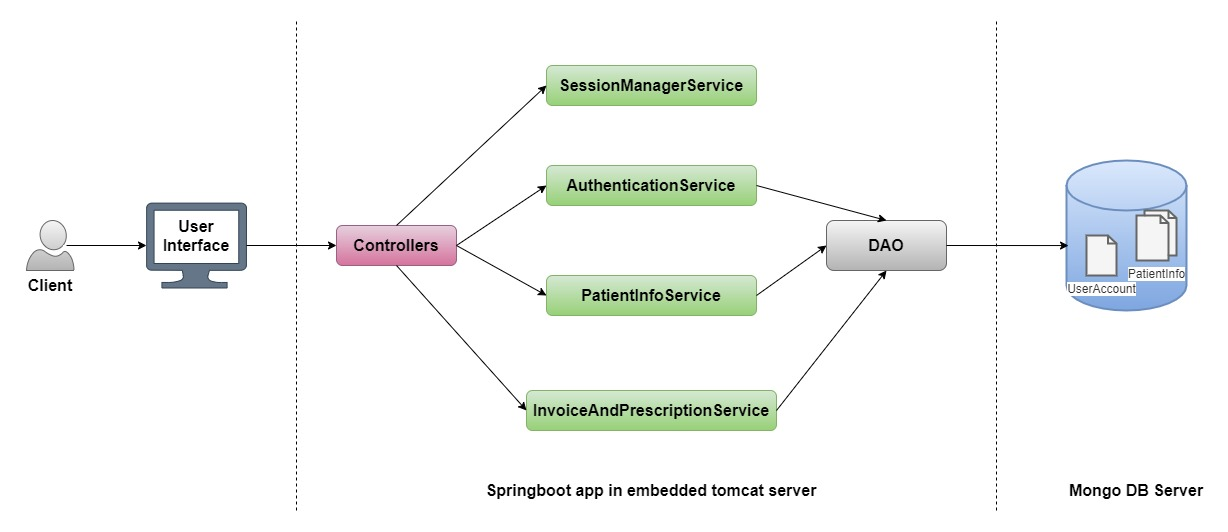
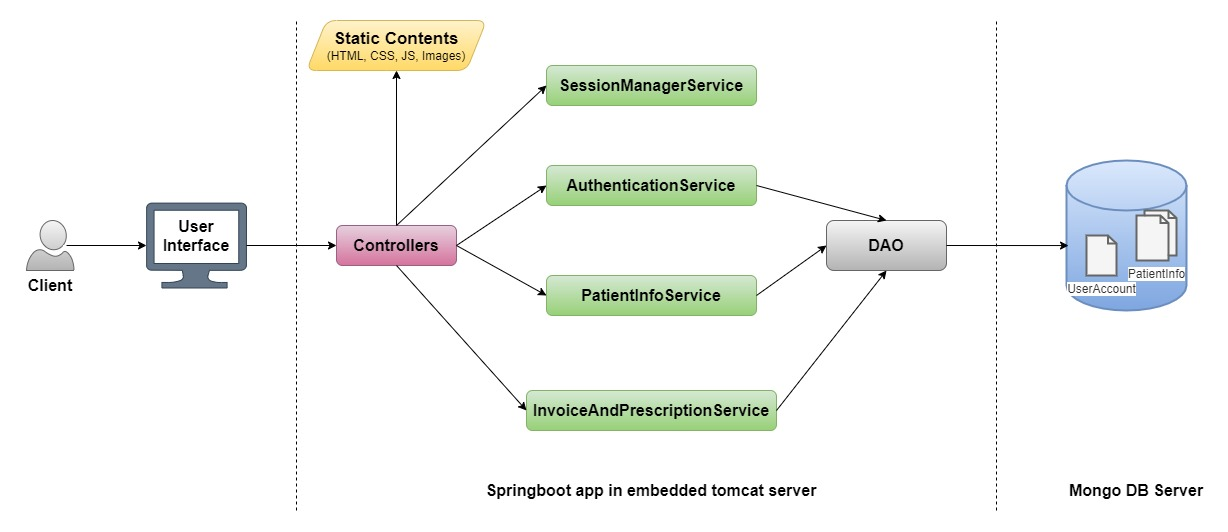
updated architecture image with static content block

Changed region(s): [[0.2476, 0.0301, 0.4023, 0.1504]]

diff --git a/README.md b/README.md
@@ -97,6 +97,11 @@
 
 ---
 
+## UI Layouts
+INP
+
+---
+
 ## Setup & Deployment
 INP
 
